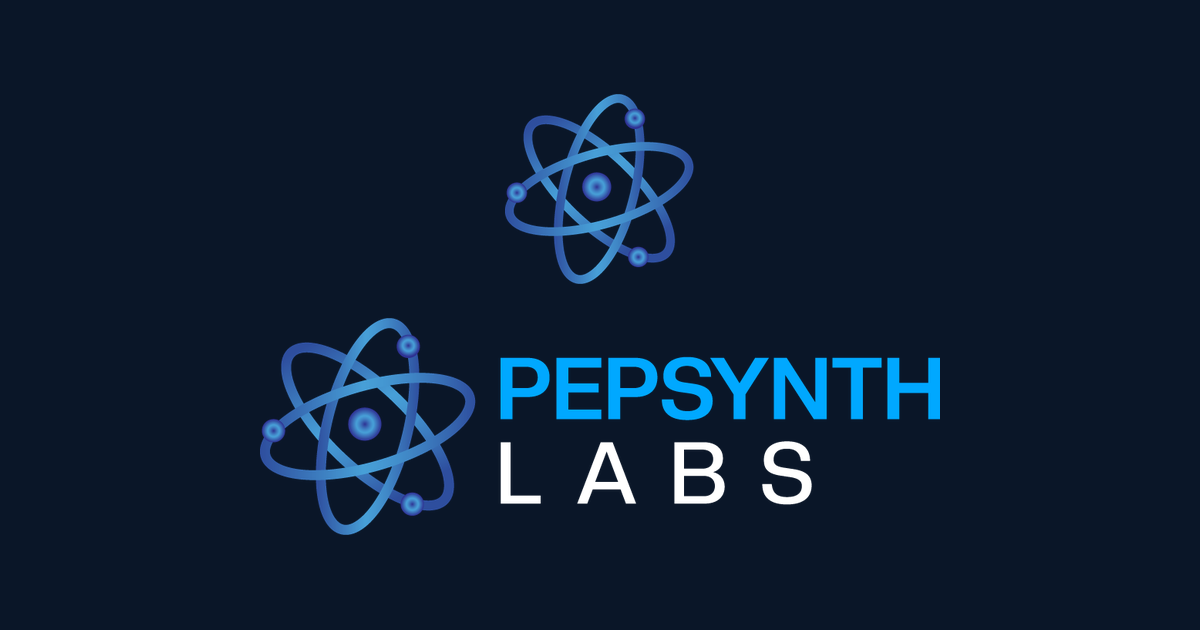
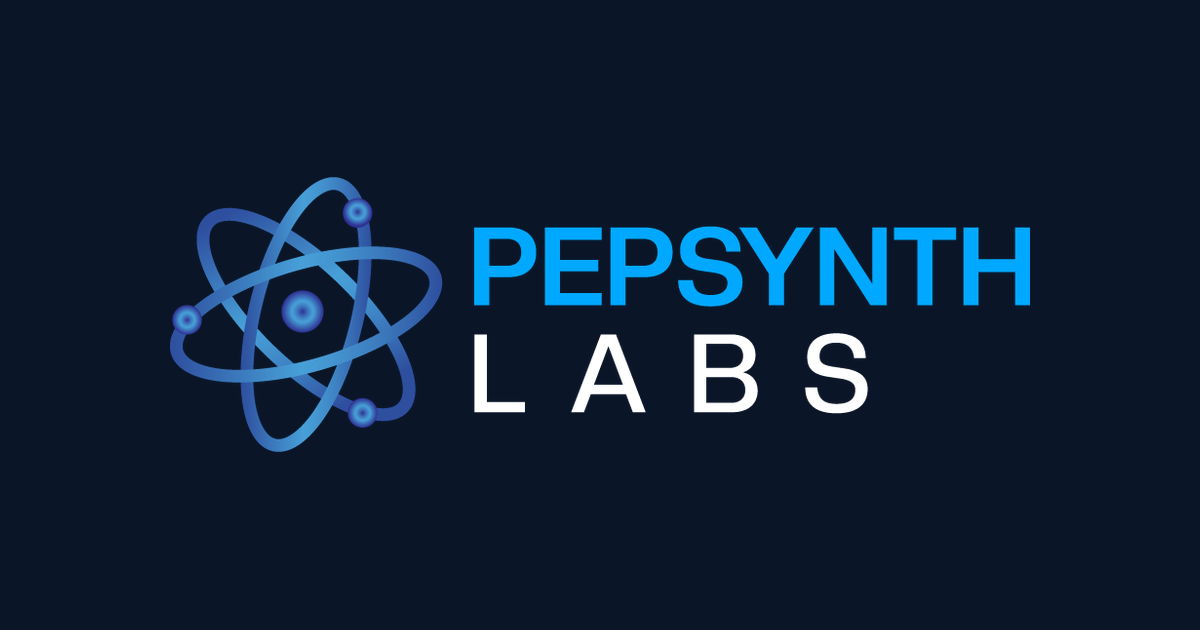
Use wordmark only in social share image
The link preview stacked the standalone atom above the wordmark, but the
wordmark already contains its own atom mark, so previews showed the logo
twice. Wordmark is now centered alone and scaled up.

Also add og:image dimensions/alt, a twitter:image tag, and a ?v=2 cache
buster so platforms refetch instead of serving the cached old card.

Changed region(s): [[0.1233, 0.1508, 0.8633, 0.8444], [0.555, 0.6937, 0.6783, 0.8143]]

diff --git a/index.html b/index.html
@@ -26,7 +26,11 @@
 <link rel="apple-touch-icon" href="assets/apple-touch-icon.png">
 <meta property="og:title" content="Peptide Reconstitution Calculator | Pepsynth Labs">
 <meta property="og:description" content="Instant BAC water, concentration and insulin-syringe unit calculations for 50+ research peptides.">
-<meta property="og:image" content="https://calculator.pepsynthlabs.com/assets/og-image.png">
+<meta property="og:image" content="https://calculator.pepsynthlabs.com/assets/og-image.png?v=2">
+<meta property="og:image:width" content="1200">
+<meta property="og:image:height" content="630">
+<meta property="og:image:alt" content="Pepsynth Labs">
+<meta name="twitter:image" content="https://calculator.pepsynthlabs.com/assets/og-image.png?v=2">
 <meta property="og:url" content="https://calculator.pepsynthlabs.com/">
 <meta property="og:type" content="website">
 <meta property="og:site_name" content="Pepsynth Labs">
